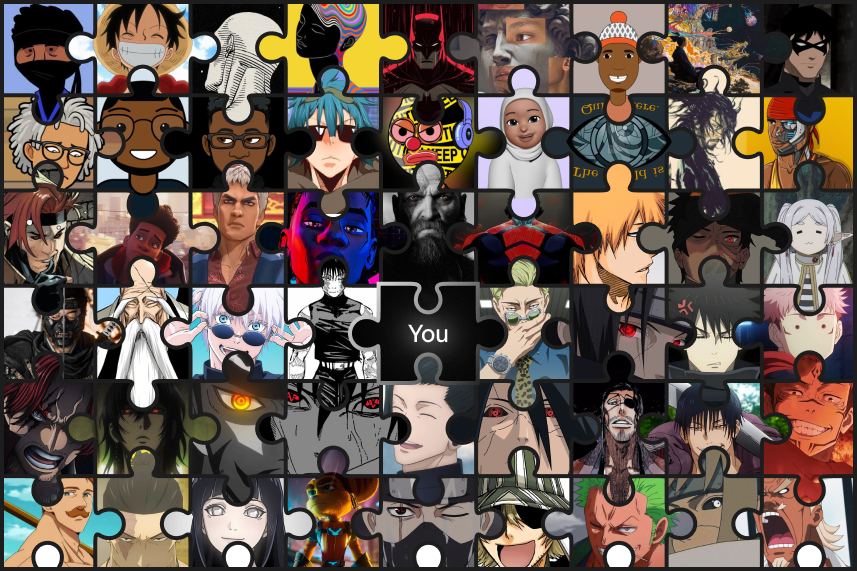
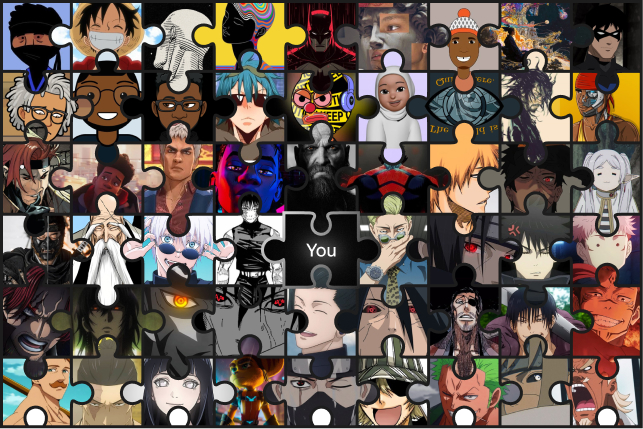
using mask

diff --git a/src/pages/home/community_section/members_jigsaw/shaders.rs b/src/pages/home/community_section/members_jigsaw/shaders.rs
@@ -23,9 +23,15 @@ pub const FRAGMENT_SHADER: &str = "
   varying vec2 v_texCoord;
 
   void main() {
-    vec4 color1 = texture2D(u_mainImage, v_texCoord);
-    vec4 color2 = texture2D(u_maskImage, v_texCoord);
+    vec3 baseColor = vec3(0.012,0.012,0.012);
+    vec4 imageColor = texture2D(u_mainImage, v_texCoord);
+    vec4 maskColor = texture2D(u_maskImage, v_texCoord);
+    
+    float opacity = 1.0 - maskColor.b;
 
-    gl_FragColor = vec4((color2).rgb, color1.a);
+    vec3 bg = baseColor * maskColor.b;
+    vec3 img = imageColor.rgb * opacity;
+
+    gl_FragColor = vec4(bg + img, 1.0);
   }
 ";
